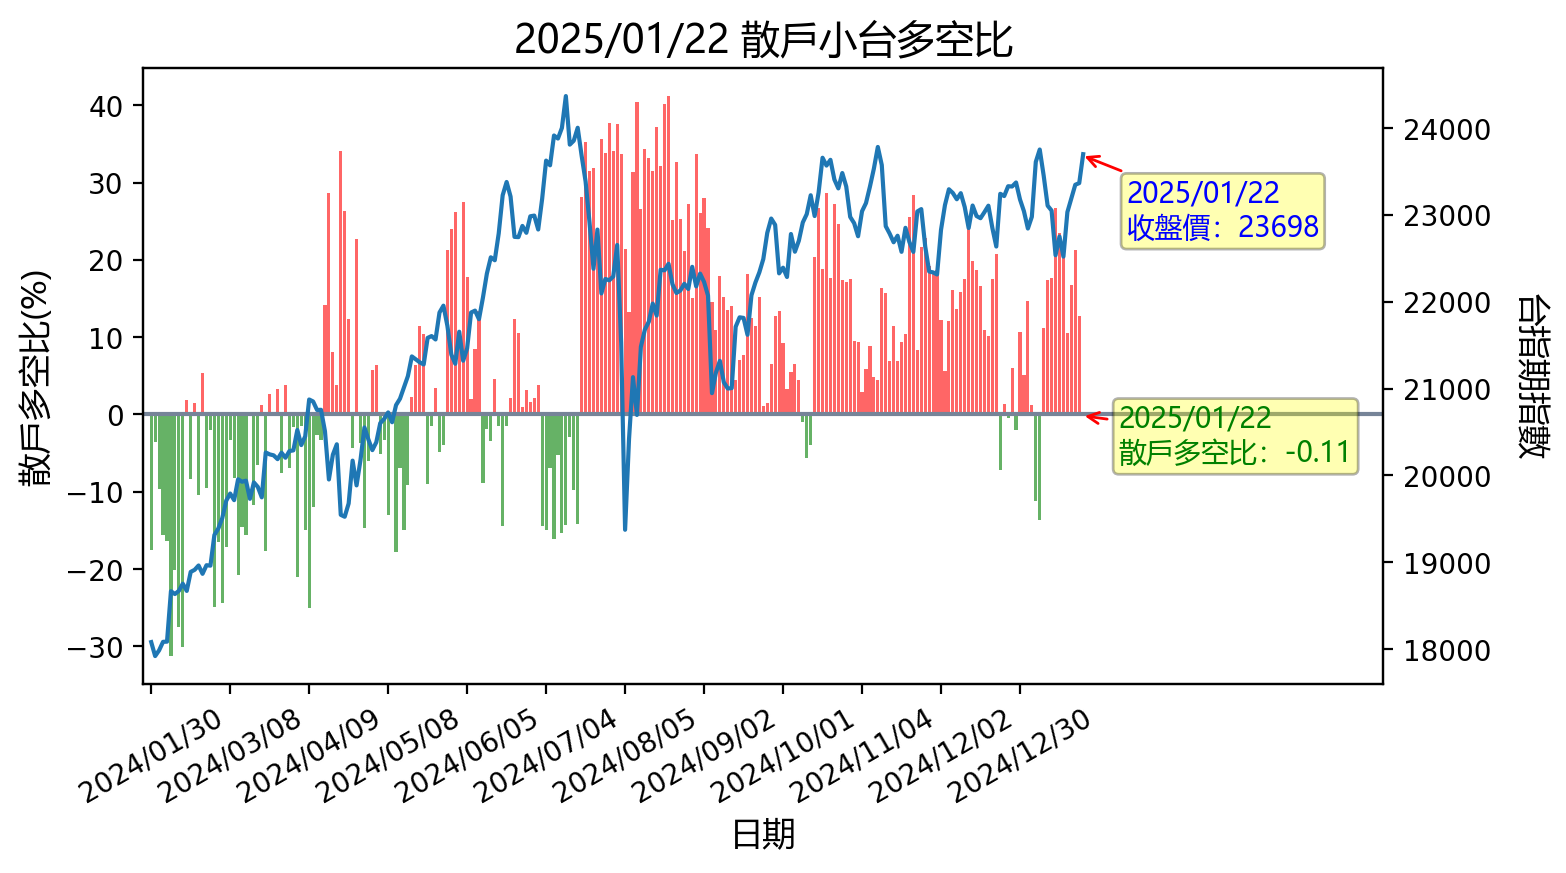
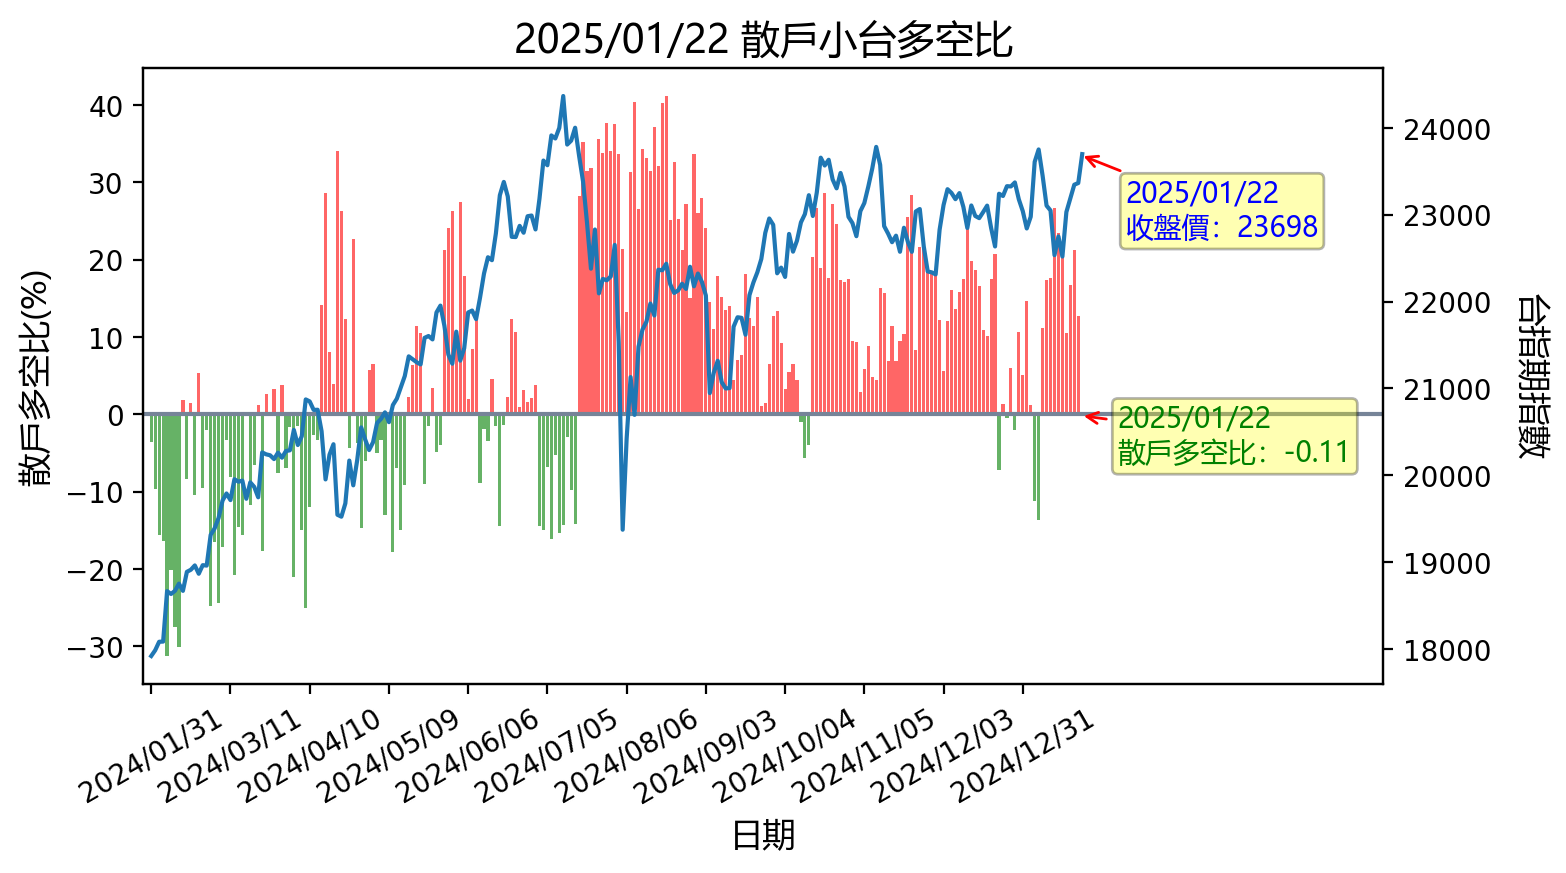
更新時間: Fri Jan 31 16:33:28 CST 2025

Changed region(s): [[0.092, 0.1237, 0.8582, 0.7732], [0.1226, 0.8041, 0.705, 0.9588], [0.8276, 0.4948, 0.8582, 0.5258]]

diff --git a/README.md b/README.md
@@ -1,12 +1,12 @@
-## 20250130 台指期「預估換倉成本」
+## 20250131 台指期「預估換倉成本」
 ![](images/txfcost.png)
 
-## 20250130 台指期「散戶小台多空比」
+## 20250131 台指期「散戶小台多空比」
 ![](images/bbiri.png)
 
-## 20250130 台指選擇權「Put/Call Ratios」
+## 20250131 台指選擇權「Put/Call Ratios」
 ![](images/pcratio.png)
 
-## 20250130 台指期「大額交易人」
+## 20250131 台指期「大額交易人」
 ![](images/blocktrade.png)
 
